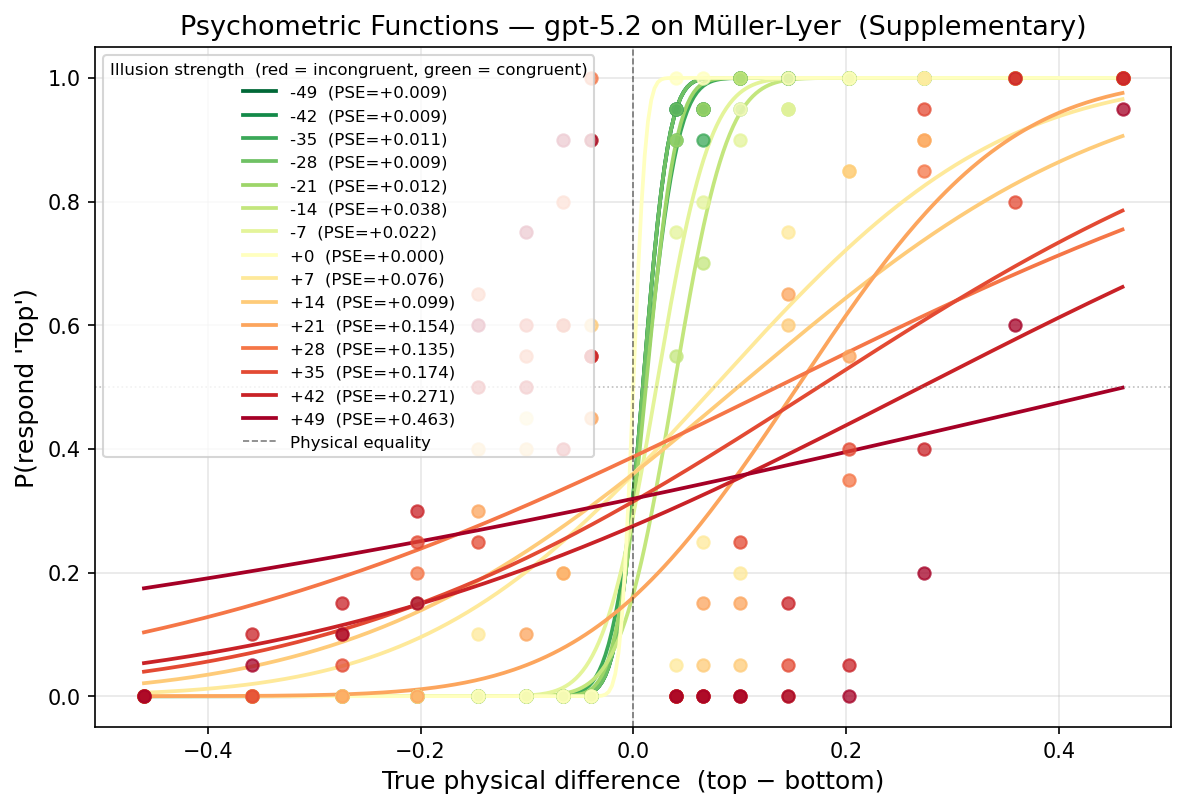
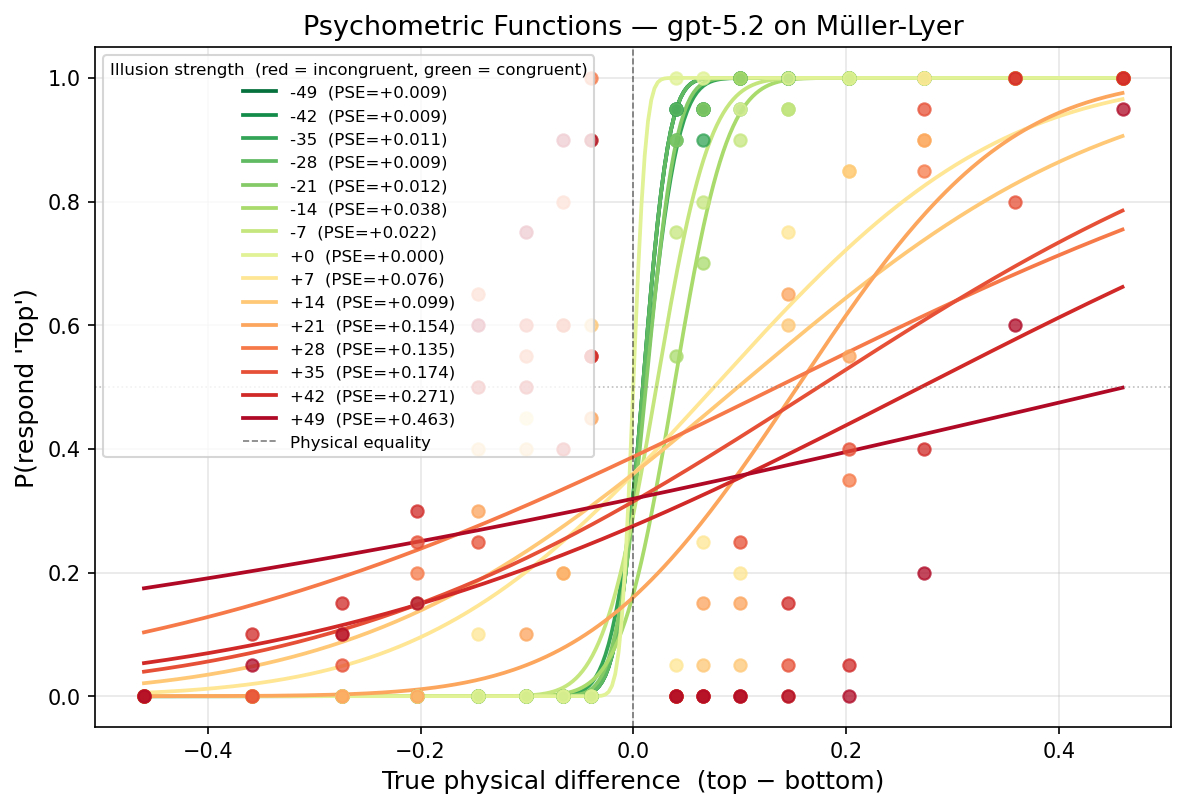
chore: update difficulty colormap to enhance color differentiation and improve visibility

diff --git a/plot_results.py b/plot_results.py
@@ -77,14 +77,25 @@ def cumulative_gaussian(x: np.ndarray, mu: float, sigma: float) -> np.ndarray:
 
 def difficulty_colormap(n: int) -> list:
     """
-    Return n colours from Red→Yellow→Green (hard→easy).
+    Return n colours from Red→Orange→Teal→Green (hard→easy).
+
+    Samples only the saturated outer portions of RdYlGn (roughly 0.0–0.42
+    for the red-orange side and 0.58–1.0 for the teal-green side), skipping
+    the pale yellow centre that becomes invisible on a white background.
 
     Index 0 = red (hardest), index n-1 = green (easiest).
-    Used by both Figure 1 (difficulty bins) and Figure 3 (illusion strength,
-    where the most incongruent/positive strength = hardest = red).
+    Used by both Figure 1 (difficulty bins) and Figure 3 (illusion strength).
     """
-    cmap = cm.get_cmap("RdYlGn", n)
-    return [cmap(i) for i in range(n)]
+    cmap = cm.get_cmap("RdYlGn")
+    half = n // 2
+    remainder = n - half
+    positions = np.concatenate(
+        [
+            np.linspace(0.02, 0.42, half),  # red → orange
+            np.linspace(0.58, 0.98, remainder),  # teal → green
+        ]
+    )
+    return [cmap(p) for p in positions]
 
 
 # ============================================================================
@@ -561,14 +572,13 @@ def main():
     )
 
     # ── Figure 1: require raw participant files ───────────────────────────
-    error_agg = None
     if not participants_dir.exists():
         print(
             f"⚠  Skipping Figure 1: participants directory not found "
             f"({participants_dir}). Pass --participants-dir to enable."
         )
     else:
-        error_agg = plot_error_by_difficulty(
+        plot_error_by_difficulty(
             participants_dir,
             output_dir / "fig1_error_by_difficulty.png",
             model_name=args.model_name,
